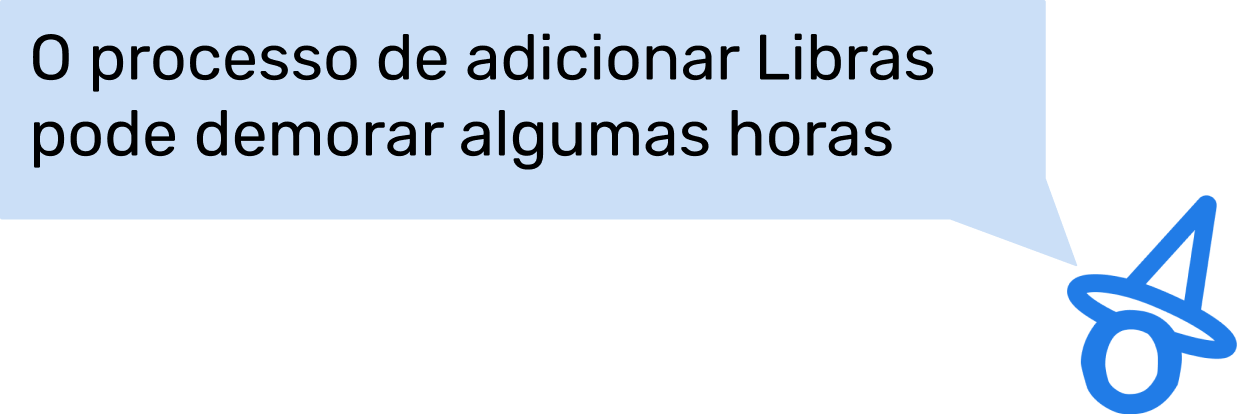
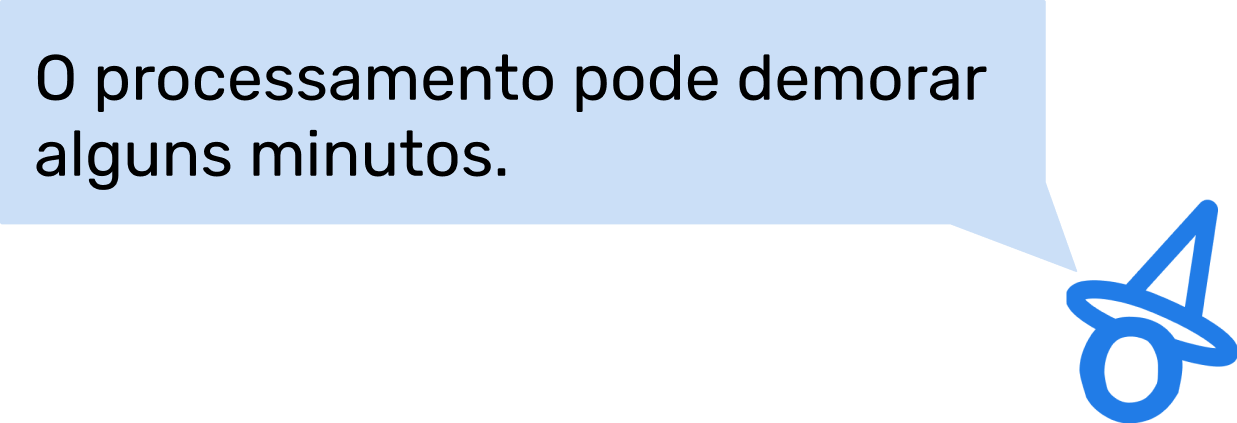
Atualizações html/css/js

diff --git a/HTML/estilos.css b/HTML/estilos.css
@@ -2,11 +2,16 @@ html{
     height: 100%;
 }
 
+.margem {
+    margin-left: 20px;
+    margin-right: 20px;
+}
+
 body {
     background-color: #EFF3FC;
     font-family: "Rubik", sans-serif;
     position: relative;
-    margin: 0;
+
     min-height: 100%;
 }
 
@@ -36,18 +41,20 @@ body {
     color: #217CE7;
     padding-top: 100px;
     font-size: 200%;
-    padding-left: 10%;
-    padding-right: 10%;
+
 }
 
 .texto{
     text-align: center;
-    color: #217CE7;
+    color: black;
     padding-top: 1%;
     font-size: 200%;
-    padding-left: 10%;
-    padding-right: 10%;
+
     padding-bottom: 5%;
+}
+
+.subtexto{
+    text-align: center;
 }
 
 .centralizado {
@@ -84,17 +91,17 @@ body {
 }
 
 .custom-checkbox .form-check-label {
-    padding-left: 40px;
+
     font-size: 50px;
 }
 
 .box{
-    padding-left: 15%;
+
 }
 
 .textbox{
     padding-bottom: 10px;
-    padding-left: 10%;
+    padding-left: 35px;
     color: #217CE7;
 }
 
@@ -103,21 +110,7 @@ body {
     display: flex;
     justify-content: right;
     align-items: right;
-    padding-right: 10%;
     padding-bottom: 5px;
-    padding-left: 10%;
-    height: auto;
-    width: 100%;
-}
-
-#legendapro{
-    text-align: right;
-    display: flex;
-    justify-content: right;
-    align-items: right;
-    padding-right: 10%;
-    padding-bottom: 5px;
-    padding-left: 10%;
     height: auto;
     width: 100%;
 }
@@ -134,7 +127,6 @@ footer {
 
 footer p {
     margin: 0;
-
 }
 
 .botao-imagem{
@@ -143,7 +135,7 @@ footer p {
 }
 
 #btupload{
-    width: 80%;
+    width: 100%;
     outline: none;
 }
 

diff --git a/HTML/limago.js b/HTML/limago.js
@@ -8,7 +8,7 @@ function processamento() {
     var caixa = document.getElementById("defaultCheck1");
     var caixa2 = document.getElementById("defaultCheck2");
     var librapro = document.getElementById("librapro");
-    var legendapro = document.getElementById("legendapro");
+    var subtexto = document.getElementById("subtexto");
 
     var processamentotexto = document.getElementById("processamentotexto");
     var btdoacao= document.getElementById("btdoacao");
@@ -19,15 +19,14 @@ function processamento() {
     caixa.style.display = "none";
     caixa2.style.display = "none";
     librapro.style.display = "none";
-    legendapro.style.display = "none";
     descricao.style.display = "none";
+    subtexto.style.display = "none";
     // PROCESSAMENTO
     imagem.src="img/loading.gif";
     imagem.id="loading";
 
     processamentotexto.textContent= "O seu vídeo está sendo processado, por favor aguarde"
     btdoacao.style.backgroundImage = "url('img/doacao.png')";
- 
     
 }
 var upload = document.getElementById("upload");

diff --git a/HTML/index.html b/HTML/index.html
@@ -39,7 +39,7 @@
         </div>
     </nav>
  <!-- FIM NAVBAR -->
-
+<div class="margem">
 <h2 class="texto-titulo" id="descricao">Legende e traduza videoaulas para LIBRAS com <b class="destaque">LIMAGO</b></h1>
 
     <div class="centralizado">
@@ -49,6 +49,10 @@
           </button>
         </div>
     </div>
+
+<h5 class="subtexto" id="subtexto">
+  Faça o upload para legendar seu video
+</h5>
 
 <h5 class="texto" id="texto">
     Selecione os quadrados abaixo de acordo com sua necessidade
@@ -61,9 +65,7 @@
       Legendas
     </label>
   </div>
-  <div id="legendapro">
-    <img src="img/legendapro.png" class="img-fluid" id="legendapro" alt="">
-  </div>
+
 
   <div class="form-check custom-checkbox box">
     <input class="form-check-input box" type="checkbox" value="" id="defaultCheck2">
@@ -78,7 +80,7 @@
   <h3 id="processamentotexto" class="texto"></h3>
   <button class="" id="btdoacao">
   </button>
-
+</div>
   <footer>
     <div class="container rodape">
         <p>&copy; 2024 Limago.</p>
